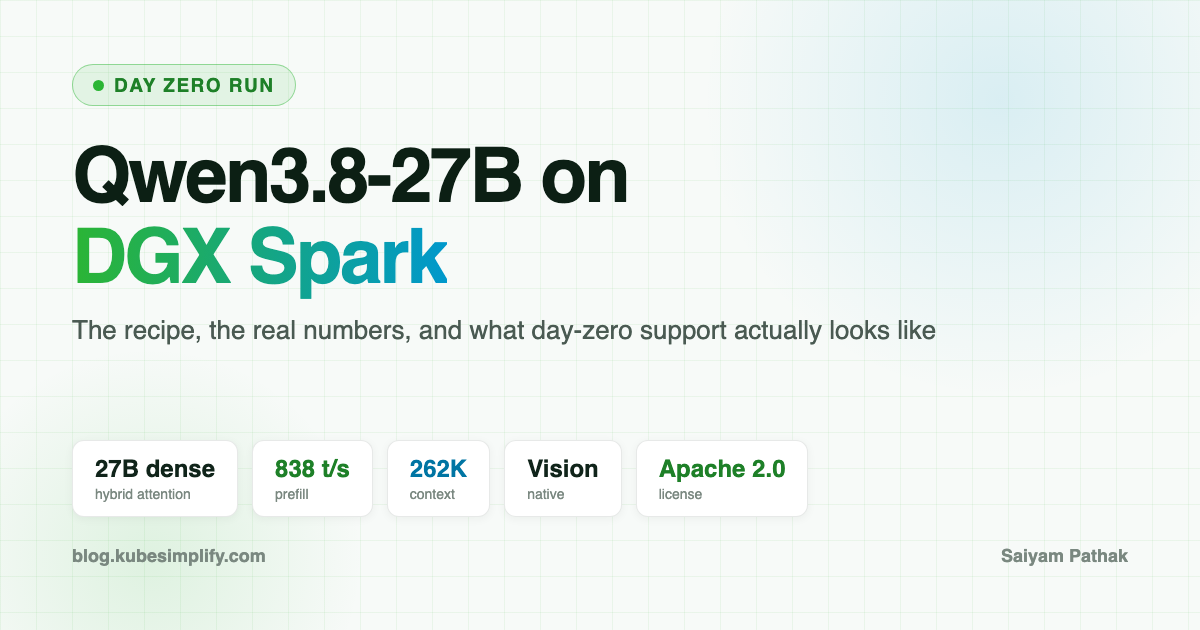
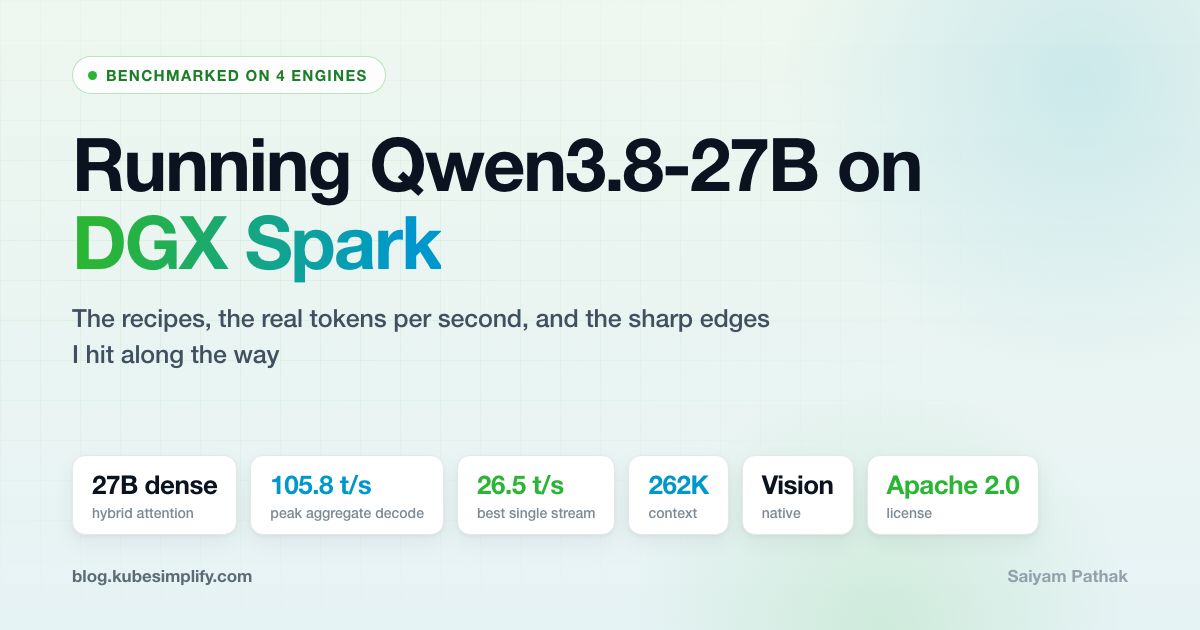
Review pass: fix chart callback, dedupe arch note, env table, new cover
Preflight against the saved benchmark CSVs turned up a few things:

- Vision section claimed the model read "11.3 t/s" off the chart; the chart
  shows 11.6 (llama.cpp Q4 single stream). Corrected.
- Vision section referenced "the chart you saw above" but sat 30 lines
  before the chart. Moved it after the Ollama section so the callback works.
- Wrapping-up context-flatness bullet mixed engines (8.2 and 7.9 are FP8,
  9.8 is NVFP4). Now all NVFP4: 11.5 -> 10.9 -> 9.8.
- 32K decode drop is 3%, not 4%. Requant delta is within 4%, not 3%, and
  only the NVFP4 revision has a saved re-run, so the GGUF claim is dropped.
- Test environment paragraph is now a table (unreadable on mobile as prose),
  and it names the Aug 17 runs that produced the MTP/SGLang/DSpark numbers.
- qwen3_5 architecture explanation appeared three times; the causal version
  now lands once and llama-bench keeps only the observation.
- 121GB vs 128GB contradiction reworded; added the bandwidth-ceiling
  arithmetic so 11.6 t/s reads as ~70% of peak rather than "close to" it.
- New light-theme cover reflecting the finished post (4 engines, 105.8 t/s
  peak aggregate) instead of the day-zero-only framing.

Changed region(s): [[0.0617, 0.6937, 0.9558, 1.0], [0.0617, 0.2111, 0.8017, 0.6032], [0.0617, 0.0905, 0.3083, 0.1508]]

diff --git a/content/blog/qwen3-8-27b-on-dgx-spark.md b/content/blog/qwen3-8-27b-on-dgx-spark.md
@@ -13,7 +13,23 @@ Qwen announced the 3.8 family on August 3: Qwen3.8-Max, the 2.4T flagship, plus 
 
 It dropped on August 14. I had it running on the DGX Spark within the hour, so here is the full recipe, what worked on day zero, what did not, and the numbers. Let's get into it.
 
-Everything below was run on my DGX Spark (GB10, 128GB unified memory, DGX OS, driver 580.159.03) on August 14-15, 2026 with llama.cpp build b10423, the spark-arena vLLM nightly (0.27.2rc1), Ollama v0.32.12, SGLang latest-cu130, and llama-benchy 0.4.0 for the load tests. Checkpoint revisions: Qwen/Qwen3.8-27B-FP8 at 017b9c7a (the launch upload, unchanged since), unsloth GGUF at 4604b899, unsloth NVFP4 at 60e813d4 for the day-zero runs and 7d6f8d4d for the MTP runs. unsloth updated both quants after launch, so I re-benchmarked the updated revisions: 11.9 t/s single-stream on both, within 3% of the numbers below, nothing material changed.
+Here is exactly what everything below was run on:
+
+| Component | What I ran |
+|---|---|
+| Box | DGX Spark, GB10, 128GB unified memory |
+| OS and driver | DGX OS, driver 580.159.03, kernel 6.17.0-1018-nvidia |
+| Test dates | August 14-15, 2026 (the MTP, SGLang, and DSpark runs came on August 17) |
+| llama.cpp | build b10423 |
+| vLLM | spark-arena nightly 0.27.2rc1, plus stable v0.27.1 for the DSpark run |
+| Ollama | v0.32.12 |
+| SGLang | latest-cu130 |
+| Load-test tool | llama-benchy 0.4.0 |
+| FP8 checkpoint | Qwen/Qwen3.8-27B-FP8 at 017b9c7a (the launch upload, unchanged since) |
+| GGUF quant | unsloth/Qwen3.8-27B-GGUF at 4604b899 |
+| NVFP4 quant | unsloth/Qwen3.8-27B-NVFP4 at 60e813d4 (day zero), 7d6f8d4d (MTP runs) |
+
+unsloth updated both quants after launch, so I re-benchmarked the updated NVFP4 revision: 11.9 t/s single-stream, within 4% of the numbers below, nothing material changed.
 
 Every measurement in this post came from one of these four commands, so you can rerun any table row yourself:
 
@@ -88,11 +104,11 @@ The `llama-bench` numbers (build b10423, flash attention on, UD-Q4_K_XL, 16.68 G
 | tg128 (decode) | 11.6 t/s |
 | tg32 (decode) | 11.6 t/s |
 
-Let me be honest about that decode number, because this is where dense models and the Spark have a complicated relationship. The GB10's unified memory is the whole reason a 27B fits comfortably, but its ~273 GB/s of bandwidth is the ceiling for decode on any dense model: every generated token has to stream all 16.7GB of weights. 11.6 t/s is close to what the hardware can physically do at this quant size. If you have been running MoE models like Nemotron 3.5 Lightning (30B but only ~3B active) on the Spark and got used to 100+ t/s decode, recalibrate: this is a real dense 27B, all parameters working on every token.
+Let me be honest about that decode number, because this is where dense models and the Spark have a complicated relationship. The GB10's unified memory is the whole reason a 27B fits comfortably, but its ~273 GB/s of bandwidth is the ceiling for decode on any dense model: every generated token has to stream all 16.7GB of weights. Think of it like re-reading a whole book off the shelf before you can write each next word: your reading speed sets the pace, not how fast you can think. Do the arithmetic and 273 GB/s over 16.7GB puts the theoretical ceiling around 16 t/s, so the measured 11.6 is roughly 70% of peak, which is about what real kernels get. If you have been running MoE models like Nemotron 3.5 Lightning (30B but only ~3B active) on the Spark and got used to 100+ t/s decode, recalibrate: this is a real dense 27B, all parameters working on every token.
 
 Prefill is a different story: 838 t/s means a 2,000 token prompt is processed in under 2.5 seconds, and the hybrid DeltaNet layers keep that roughly flat as context grows.
 
-Fun detail: llama-bench identifies the model as "qwen35 27B" because the GGUF carries the `qwen3_5` architecture tag, which is exactly why it worked in llama.cpp on day zero with no code changes.
+Fun detail: llama-bench identifies the model as "qwen35 27B", the architecture tag from the config showing through in the GGUF metadata.
 
 ## The vLLM path (best throughput)
 
@@ -152,7 +168,7 @@ At low concurrency, deep context is actually where this architecture shines. Mea
 | Decode at 32K context (c=1) | 7.9 t/s |
 | Decode at 32K context (c=2, aggregate) | 15.1 t/s |
 
-The decode number is the one to notice here: 8.2 t/s at zero context, 7.9 t/s at 32K context, a 4% drop. On a conventional full-attention model the KV cache reads grow with context and decode sags noticeably; here 48 of the 64 layers are linear attention with constant-size state, so decode speed is nearly flat in context depth. For long-document and agentic workloads on local hardware, that flatness matters more than the headline number.
+The decode number is the one to notice here: 8.2 t/s at zero context, 7.9 t/s at 32K context, a 3% drop. On a conventional full-attention model the KV cache reads grow with context and decode sags noticeably; here 48 of the 64 layers are linear attention with constant-size state, so decode speed is nearly flat in context depth. For long-document and agentic workloads on local hardware, that flatness matters more than the headline number.
 
 This is what day zero actually looks like: the happy paths work because the architecture class was already supported, and the corner cases (linear-attention state management under concurrent long-context load) still need the engines to catch up. If you are evaluating this model for production serving, test YOUR context/concurrency profile before committing.
 
@@ -170,12 +186,6 @@ GB10 is a Blackwell chip, and Blackwell has native FP4 tensor cores, so the natu
 NVFP4 ties llama.cpp's single-stream decode (11.5 vs 11.6, both stream ~16GB of weights, the physics is consistent), and wins everything else: 84.3 t/s aggregate decode at concurrency 10 (46% over FP8's 57.9), and batched prefill that scales UP with concurrency to nearly 4,000 t/s where FP8's fell. If you serve this model on a Spark, NVFP4 is the recipe.
 
 The quality tradeoff of 4-bit quantization is real and workload-dependent; benchmark your own evals before standardizing on it.
-
-## Vision test: it read its own benchmark chart
-
-The GGUF ships with the vision projector and llama.cpp loads it automatically, so I gave the model the benchmark chart you saw above, the one measuring the model itself, and asked what it shows. It correctly identified the hardware, both metric panels, every engine and quantization in the comparison, the color coding, and the footnote about bandwidth-bound decode. Then it started reading the exact numbers back to me.
-
-There is something pleasingly recursive about a model reading a chart of its own decode speed at 11.3 t/s, which is the number on the chart. The image cost 1,470 prompt tokens, and vision decode runs at effectively the same speed as text.
 
 ## Spark Arena
 
@@ -208,15 +218,21 @@ Here is the day-zero picture across all the engines in one chart (the vLLM MTP a
 
 One operational note: the GB10 needs Ollama's cuda_v13 runner. My first attempt loaded the model on 100% CPU (7.5 t/s decode) because of a botched duplicate server start, so check `ollama ps` says `100% GPU` before you trust any numbers.
 
+## Vision test: it read its own benchmark chart
+
+The GGUF ships with the vision projector and llama.cpp loads it automatically, so I gave the model the chart you just scrolled past, the one measuring the model itself, and asked what it shows. It correctly identified the hardware, both metric panels, every engine and quantization in the comparison, the color coding, and the footnote about bandwidth-bound decode. Then it started reading the exact numbers back to me.
+
+There is something pleasingly recursive about a model reading a chart of its own decode speed at 11.6 t/s, which is the llama.cpp number on that chart, in the engine it was running in while it read it. The image cost 1,470 prompt tokens, and vision decode runs at effectively the same speed as text.
+
 ## Unified memory sequencing lesson
 
-The Spark's 121GB is unified, and CUDA sees all of it (124,609 MiB). That is the whole appeal, a 27B in bf16 fits without quantization. But it also means inference engines fight over the same pool: my vLLM launch failed with "Free memory 74.82/121.69 GiB is less than desired 0.8 utilization (97.35 GiB)" because the llama.cpp server was still resident. On a discrete-GPU box you would notice immediately; on unified memory it is easy to forget a container is holding 18GB. `docker ps` before you launch.
+The Spark's memory is unified, and CUDA sees essentially all of it: 124,609 MiB, which is 121.7 GiB of the 128GB. That is the whole appeal, a 27B in bf16 fits without quantization. But it also means inference engines fight over the same pool: my vLLM launch failed with "Free memory 74.82/121.69 GiB is less than desired 0.8 utilization (97.35 GiB)" because the llama.cpp server was still resident. On a discrete-GPU box you would notice immediately; on unified memory it is easy to forget a container is holding 18GB. `docker ps` before you launch.
 
 Also the eternal Spark reminder: `nvidia-smi` cannot report memory usage on GB10 (Not Supported), use `free -h`.
 
 ## Three days later: MTP arrives on vLLM, and finds a cliff
 
-I sat on this post for a couple of days and the ecosystem moved fast, so here is the update. An official Spark Arena recipe landed with MTP speculative decoding for vLLM (`speculative_config {"method": "mtp", "num_speculative_tokens": 3}`), the same trick Ollama shipped on day one. The gains are real:
+I sat on this post for three days and the ecosystem moved fast, so here is the update. An official Spark Arena recipe landed with MTP speculative decoding for vLLM (`speculative_config {"method": "mtp", "num_speculative_tokens": 3}`), the same trick Ollama shipped on day one. The gains are real:
 
 | Config | Single-stream tg128 | c10 aggregate |
 |---|---|---|
@@ -254,7 +270,7 @@ Then I re-enabled NEXTN speculation (SGLang's MTP equivalent) on the working ups
 | Decode c=10 aggregate | 54.3 t/s | 71.0 t/s | 55.8 t/s |
 | Decode at 16K context (c=1) | 7.3 t/s | 10.3 t/s | 14.4 t/s |
 
-Speculation on FP8 gives SGLang almost exactly vLLM's MTP single-stream number (same weights, same trick), and its speculative scheduler scales better under batch: 71 t/s aggregate at concurrency 10 where vLLM's MTP drops to 56. If you see people posting bigger SGLang numbers than mine from earlier in this post, this is why: speculation on versus off. The overall throughput crown still belongs to vLLM NVFP4+MTP, because the 4-bit quant halves the weight traffic that everything else queues behind. And for the record, SGLang with speculation survived the 16K single-stream cell that I tested; I deliberately did not run speculation at deep context plus concurrency, the combination that hard-rebooted the box twice under vLLM.
+Speculation on FP8 gives SGLang almost exactly vLLM's MTP single-stream number (same weights, same trick), and its speculative scheduler scales better under batch: 71 t/s aggregate at concurrency 10 where vLLM's MTP drops to 56. If you see people posting bigger SGLang numbers than mine from earlier in this post, this is why: speculation on versus off. The overall throughput crown still belongs to vLLM NVFP4+MTP, because the 4-bit quant halves the weight traffic that everything else queues behind. And for the record, SGLang with speculation survived the 16K single-stream cell; I deliberately did not run speculation at deep context plus concurrency, the combination that hard-rebooted the box twice under vLLM.
 
 ## The 75 tok/s post, reproduced
 
@@ -282,7 +298,7 @@ Qwen3.8-27B on a DGX Spark, one day in:
 - Day-zero support was real everywhere: llama.cpp immediately, vLLM immediately, Ollama by end of day with v0.32.12. The qwen3_5 architecture class being pre-supported did most of the work.
 - Best single-stream chat: Ollama, 26.5 t/s, because it ships the MTP head with speculative decoding on by default. Nobody else does yet.
 - Best serving throughput: vLLM NVFP4, 84.3 t/s aggregate at 10 concurrent, prefill scaling to 4,000 t/s.
-- The architecture's superpower on this hardware is context flatness: 8.2 t/s at zero context, 7.9 at 32K, 9.8 at 100K (NVFP4). Long documents are effectively free at decode time.
+- The architecture's superpower on this hardware is context flatness: on NVFP4, decode runs 11.5 t/s at zero context, 10.9 at 32K, and still 9.8 at 100K. Long documents are effectively free at decode time.
 - Rough edge: FP8 wedged under concurrent deep-context load in the current vLLM nightly. NVFP4 did not. Test your traffic profile.
 
 A dense 27B with native vision and 262K context that runs at usable speeds on a desk box, with Apache 2.0 attached, is exactly what this hardware was built for. The MoE models are still faster chatters, but in my opinion this is the most capable thing my Spark has run so far.
